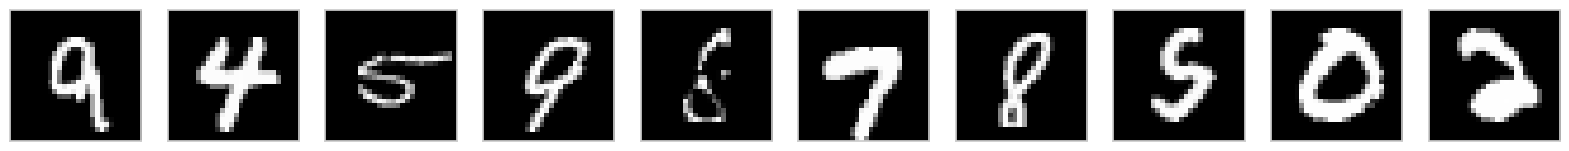
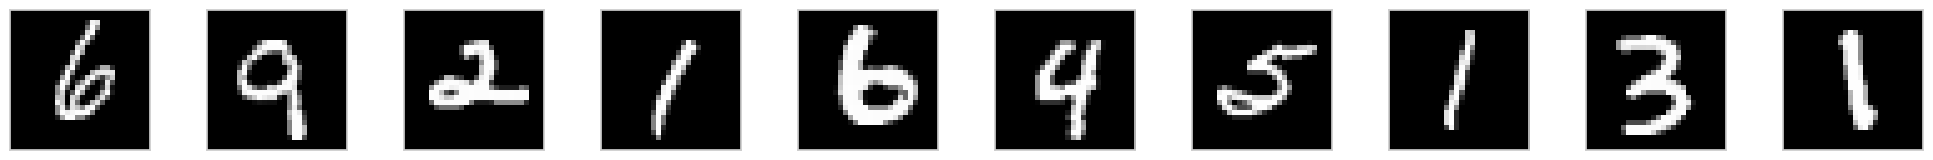
datasets3 NEEDS FIX

diff --git a/functions.py b/functions.py
@@ -19,8 +19,7 @@ from yellowbrick.classifier import ConfusionMatrix
 from yellowbrick.classifier import ClassPredictionError
 from yellowbrick.classifier import ROCAUC
 
-
-def make_loaders(batch_size):
+def MNIST_make_loaders(batch_size):
     torch.manual_seed(42)
 
     valid_size = 0.2 #The percentage of training set to use as validation
@@ -32,6 +31,80 @@ def make_loaders(batch_size):
                                 transform=transform)
     test_data = datasets.MNIST(root='../Data', 
                                train=False, 
+                               download=True, 
+                               transform=transform)
+    #Obtain the indices from the training set that will be used for validation
+    num_train = len(train_data)
+    indices = list(range(num_train))
+    np.random.shuffle(indices)
+    split = int(np.floor(valid_size * num_train))
+    train_idx, valid_idx = indices[split:], indices[:split]
+
+    #Define the samplers to obtaiun the training and validation batches
+    train_sampler = SubsetRandomSampler(train_idx)
+    valid_sampler = SubsetRandomSampler(valid_idx)
+
+
+    train_loader = DataLoader(train_data,
+                              batch_size=batch_size,
+                              sampler=train_sampler)
+    valid_loader = DataLoader(train_data,
+                              batch_size=batch_size,
+                              sampler=valid_sampler)
+    test_loader = DataLoader(test_data,
+                             batch_size=batch_size)
+    
+    return train_loader, valid_loader, test_loader
+
+def FashionMNIST_make_loaders(batch_size):
+    torch.manual_seed(42)
+
+    valid_size = 0.2 #The percentage of training set to use as validation
+    transform = transforms.ToTensor()
+
+    train_data = datasets.FashionMNIST(root='../Data',
+                                train=True, 
+                                download=True, 
+                                transform=transform)
+    test_data = datasets.FashionMNIST(root='../Data', 
+                               train=False, 
+                               download=True, 
+                               transform=transform)
+    #Obtain the indices from the training set that will be used for validation
+    num_train = len(train_data)
+    indices = list(range(num_train))
+    np.random.shuffle(indices)
+    split = int(np.floor(valid_size * num_train))
+    train_idx, valid_idx = indices[split:], indices[:split]
+
+    #Define the samplers to obtaiun the training and validation batches
+    train_sampler = SubsetRandomSampler(train_idx)
+    valid_sampler = SubsetRandomSampler(valid_idx)
+
+
+    train_loader = DataLoader(train_data,
+                              batch_size=batch_size,
+                              sampler=train_sampler)
+    valid_loader = DataLoader(train_data,
+                              batch_size=batch_size,
+                              sampler=valid_sampler)
+    test_loader = DataLoader(test_data,
+                             batch_size=batch_size)
+    
+    return train_loader, valid_loader, test_loader
+
+def STL10_make_loaders(batch_size):
+    torch.manual_seed(42)
+
+    valid_size = 0.2 #The percentage of training set to use as validation
+    transform = transforms.ToTensor()
+
+    train_data = datasets.STL10(root='../Data',
+                                split="train", 
+                                download=True, 
+                                transform=transform)
+    test_data = datasets.STL10(root='../Data', 
+                               split="test", 
                                download=True, 
                                transform=transform)
     #Obtain the indices from the training set that will be used for validation

diff --git a/gui.py b/gui.py
@@ -31,7 +31,7 @@ class App(customtkinter.CTk):
         self.logo_label.grid(row=0, column=0, padx=20, pady=(20, 10))
         self.sidebar_button_1 = customtkinter.CTkButton(self.sidebar_frame, text="Neural Operators", command=self.tab_event_1)
         self.sidebar_button_1.grid(row=1, column=0, padx=20, pady=10)
-        self.sidebar_button_2 = customtkinter.CTkButton(self.sidebar_frame, text="The Data", command=self.tab_event_2)
+        self.sidebar_button_2 = customtkinter.CTkButton(self.sidebar_frame, text="The Datasets", command=self.tab_event_2)
         self.sidebar_button_2.grid(row=2, column=0, padx=20, pady=10)
         self.sidebar_button_3 = customtkinter.CTkButton(self.sidebar_frame, text="Comparison", command=self.tab_event_3)
         self.sidebar_button_3.grid(row=3, column=0, padx=20, pady=10)
@@ -63,14 +63,26 @@ class App(customtkinter.CTk):
         self.tab_frame_2.grid_rowconfigure(0, weight=1)
         self.tabview_2 = customtkinter.CTkTabview(self.tab_frame_2)
         self.tabview_2.grid(row=0, column=0, padx=(0, 0), pady=(0, 0), sticky="nsew")
-        self.tabview_2.add("About The Dataset")
-        self.tabview_2.add("Analyzing The Data")
-        self.tabview_2.add("Splitting The Data")
+        self.tabview_2.add("MNIST")
+        self.tabview_2.add("FashionMNIST")
+        self.tabview_2.add("STL-10")
 
-        self.tabview_2.tab("Analyzing The Data").grid_columnconfigure(0, weight=1)
-        self.tabview_2.tab("Analyzing The Data").grid_rowconfigure(0, weight=1)
-        self.image_t2_ep = customtkinter.CTkImage(Image.open(current_path + "/example_plot.png"), size=(854, 480))
-        self.image_t2_ep_label = customtkinter.CTkLabel(self.tabview_2.tab("Analyzing The Data"), text ="", image=self.image_t2_ep)
+        self.tabview_2.tab("MNIST").grid_columnconfigure(0, weight=1)
+        self.tabview_2.tab("MNIST").grid_rowconfigure(0, weight=1)
+        self.image_t2_ep = customtkinter.CTkImage(Image.open(current_path + "/MNIST_example_plot.png"), size=(854, 480))
+        self.image_t2_ep_label = customtkinter.CTkLabel(self.tabview_2.tab("MNIST"), text ="", image=self.image_t2_ep)
+        self.image_t2_ep_label.grid(row=0, column=0)
+
+        self.tabview_2.tab("FashionMNIST").grid_columnconfigure(0, weight=1)
+        self.tabview_2.tab("FashionMNIST").grid_rowconfigure(0, weight=1)
+        self.image_t2_ep = customtkinter.CTkImage(Image.open(current_path + "/FashionMNIST_example_plot.png"), size=(854, 480))
+        self.image_t2_ep_label = customtkinter.CTkLabel(self.tabview_2.tab("FashionMNIST"), text ="", image=self.image_t2_ep)
+        self.image_t2_ep_label.grid(row=0, column=0)
+
+        self.tabview_2.tab("STL-10").grid_columnconfigure(0, weight=1)
+        self.tabview_2.tab("STL-10").grid_rowconfigure(0, weight=1)
+        self.image_t2_ep = customtkinter.CTkImage(Image.open(current_path + "/STL10_example_plot.png"), size=(854, 480))
+        self.image_t2_ep_label = customtkinter.CTkLabel(self.tabview_2.tab("STL10"), text ="", image=self.image_t2_ep)
         self.image_t2_ep_label.grid(row=0, column=0)
 
         self.tab_frame_3 = customtkinter.CTkFrame(self,corner_radius=0)

diff --git a/main.py b/main.py
@@ -2,9 +2,18 @@ import conv_nn as c
 import functions as func
 import os
 
-train_loader, valid_loader, test_loader = func.make_loaders(batch_size=256)
+dataset = "MNIST"
 
-func.example_plot(train_loader=train_loader)
+if dataset == "MNIST":
+    train_loader, valid_loader, test_loader = func.MNIST_make_loaders(batch_size=256)
+    func.example_plot(train_loader=train_loader)
+elif dataset == "FashionMNIST":
+    train_loader, valid_loader, test_loader = func.FashionMNIST_make_loaders(batch_size=256)
+    func.example_plot(train_loader=train_loader)
+elif dataset == "STL-10":
+    train_loader, valid_loader, test_loader = func.STL10_make_loaders(batch_size=256)
+    #NEEDS FIXING
+    func.example_plot(train_loader=train_loader)
 
 if os.path.isfile('./conv_nn.pkl'):
     model = func.load_model('conv_nn.pkl')
